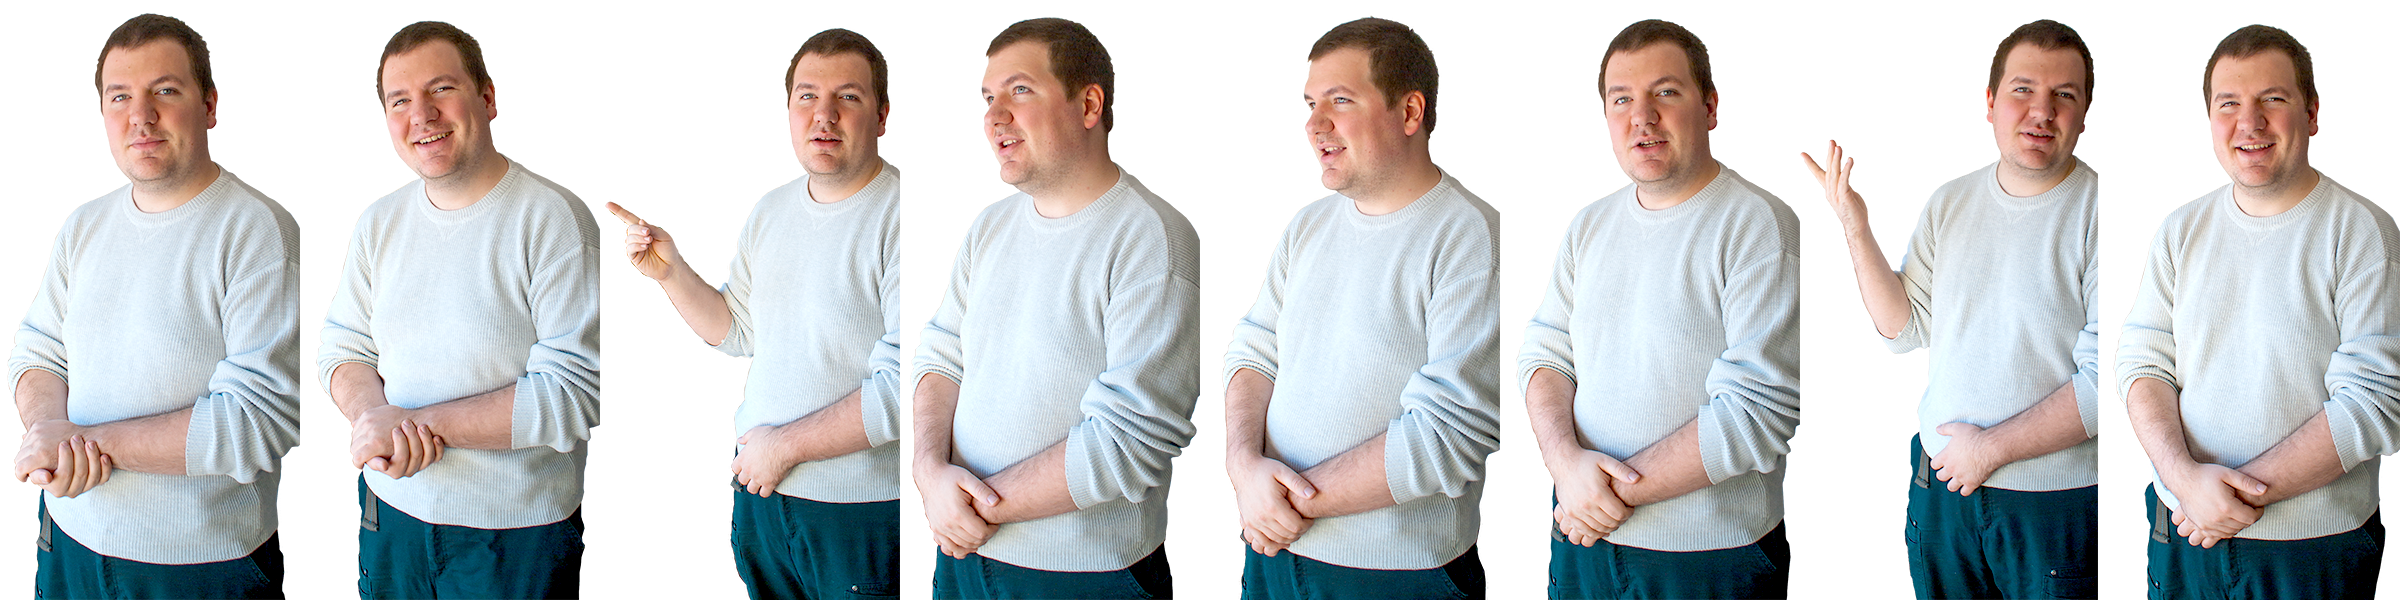
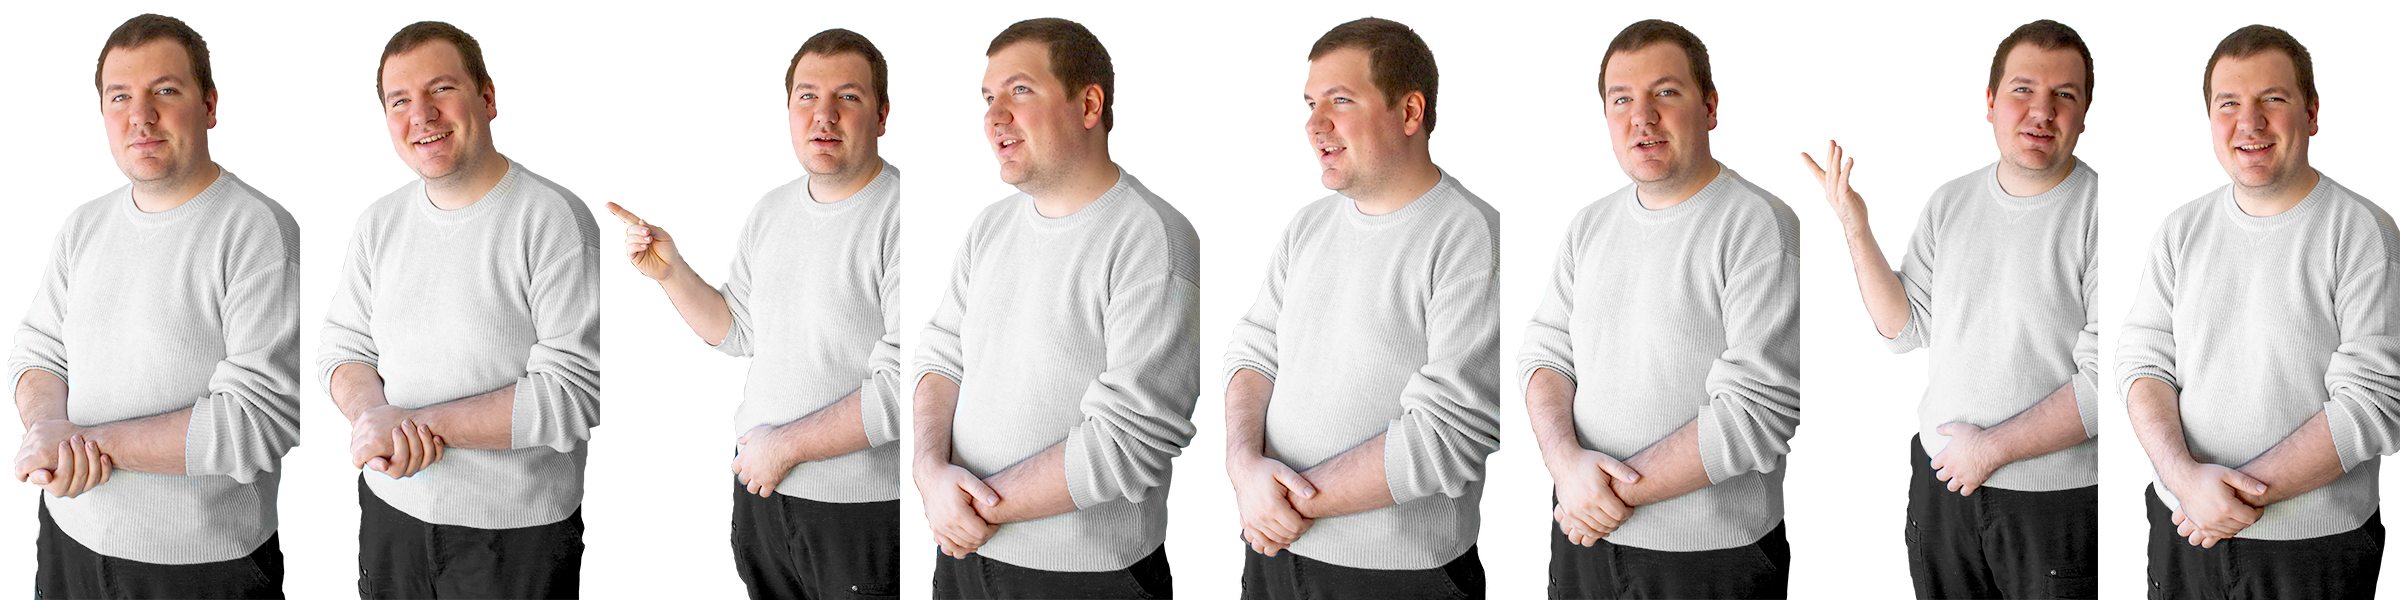
Color tweaks.
Removed the blue cast in my portraits.

diff --git a/percipient24.com/styles/homepage.css b/percipient24.com/styles/homepage.css
@@ -163,13 +163,15 @@ div
 .title
 {
 	font-family: 'Monda', sans-serif;
-	margin: 15px 0 15px 50px;
+	margin: 15px 0 15px 45px;
+	padding: 5px;
 	clear: both;
 }
 
 .position
 {
-	margin: -10px 0 10px 51px;
+	margin: -15px 0 5px 46px;
+	padding: 5px;
 }
 
 .description
@@ -353,13 +355,14 @@ h2.title a
 {
 	font-family: 'Quattrocento Sans', sans-serif;
 	font-size: 0.75em;
-	display: inline-block;
+	line-height: 1.1em;
 	color: #000000;
 	background-color: #FFFF77;
 	text-decoration: none;
 	border-width: 0;
 	padding-left: 7px;
 	padding-right: 7px;
+	padding-top: 3px;
 }
 
 h2.title a:link {}
@@ -390,4 +393,17 @@ h2.title a:active {}
 .thumbContainer img
 {
 	position: relative;
+}
+
+@media (max-width: 1000px)
+{
+	.title {
+		background-color: rgba(255,255,255,0.5);
+		display: inline-block;
+	}
+
+	.position {
+		background-color: rgba(255,255,255,0.5);
+		display: inline-block;
+	}
 }
